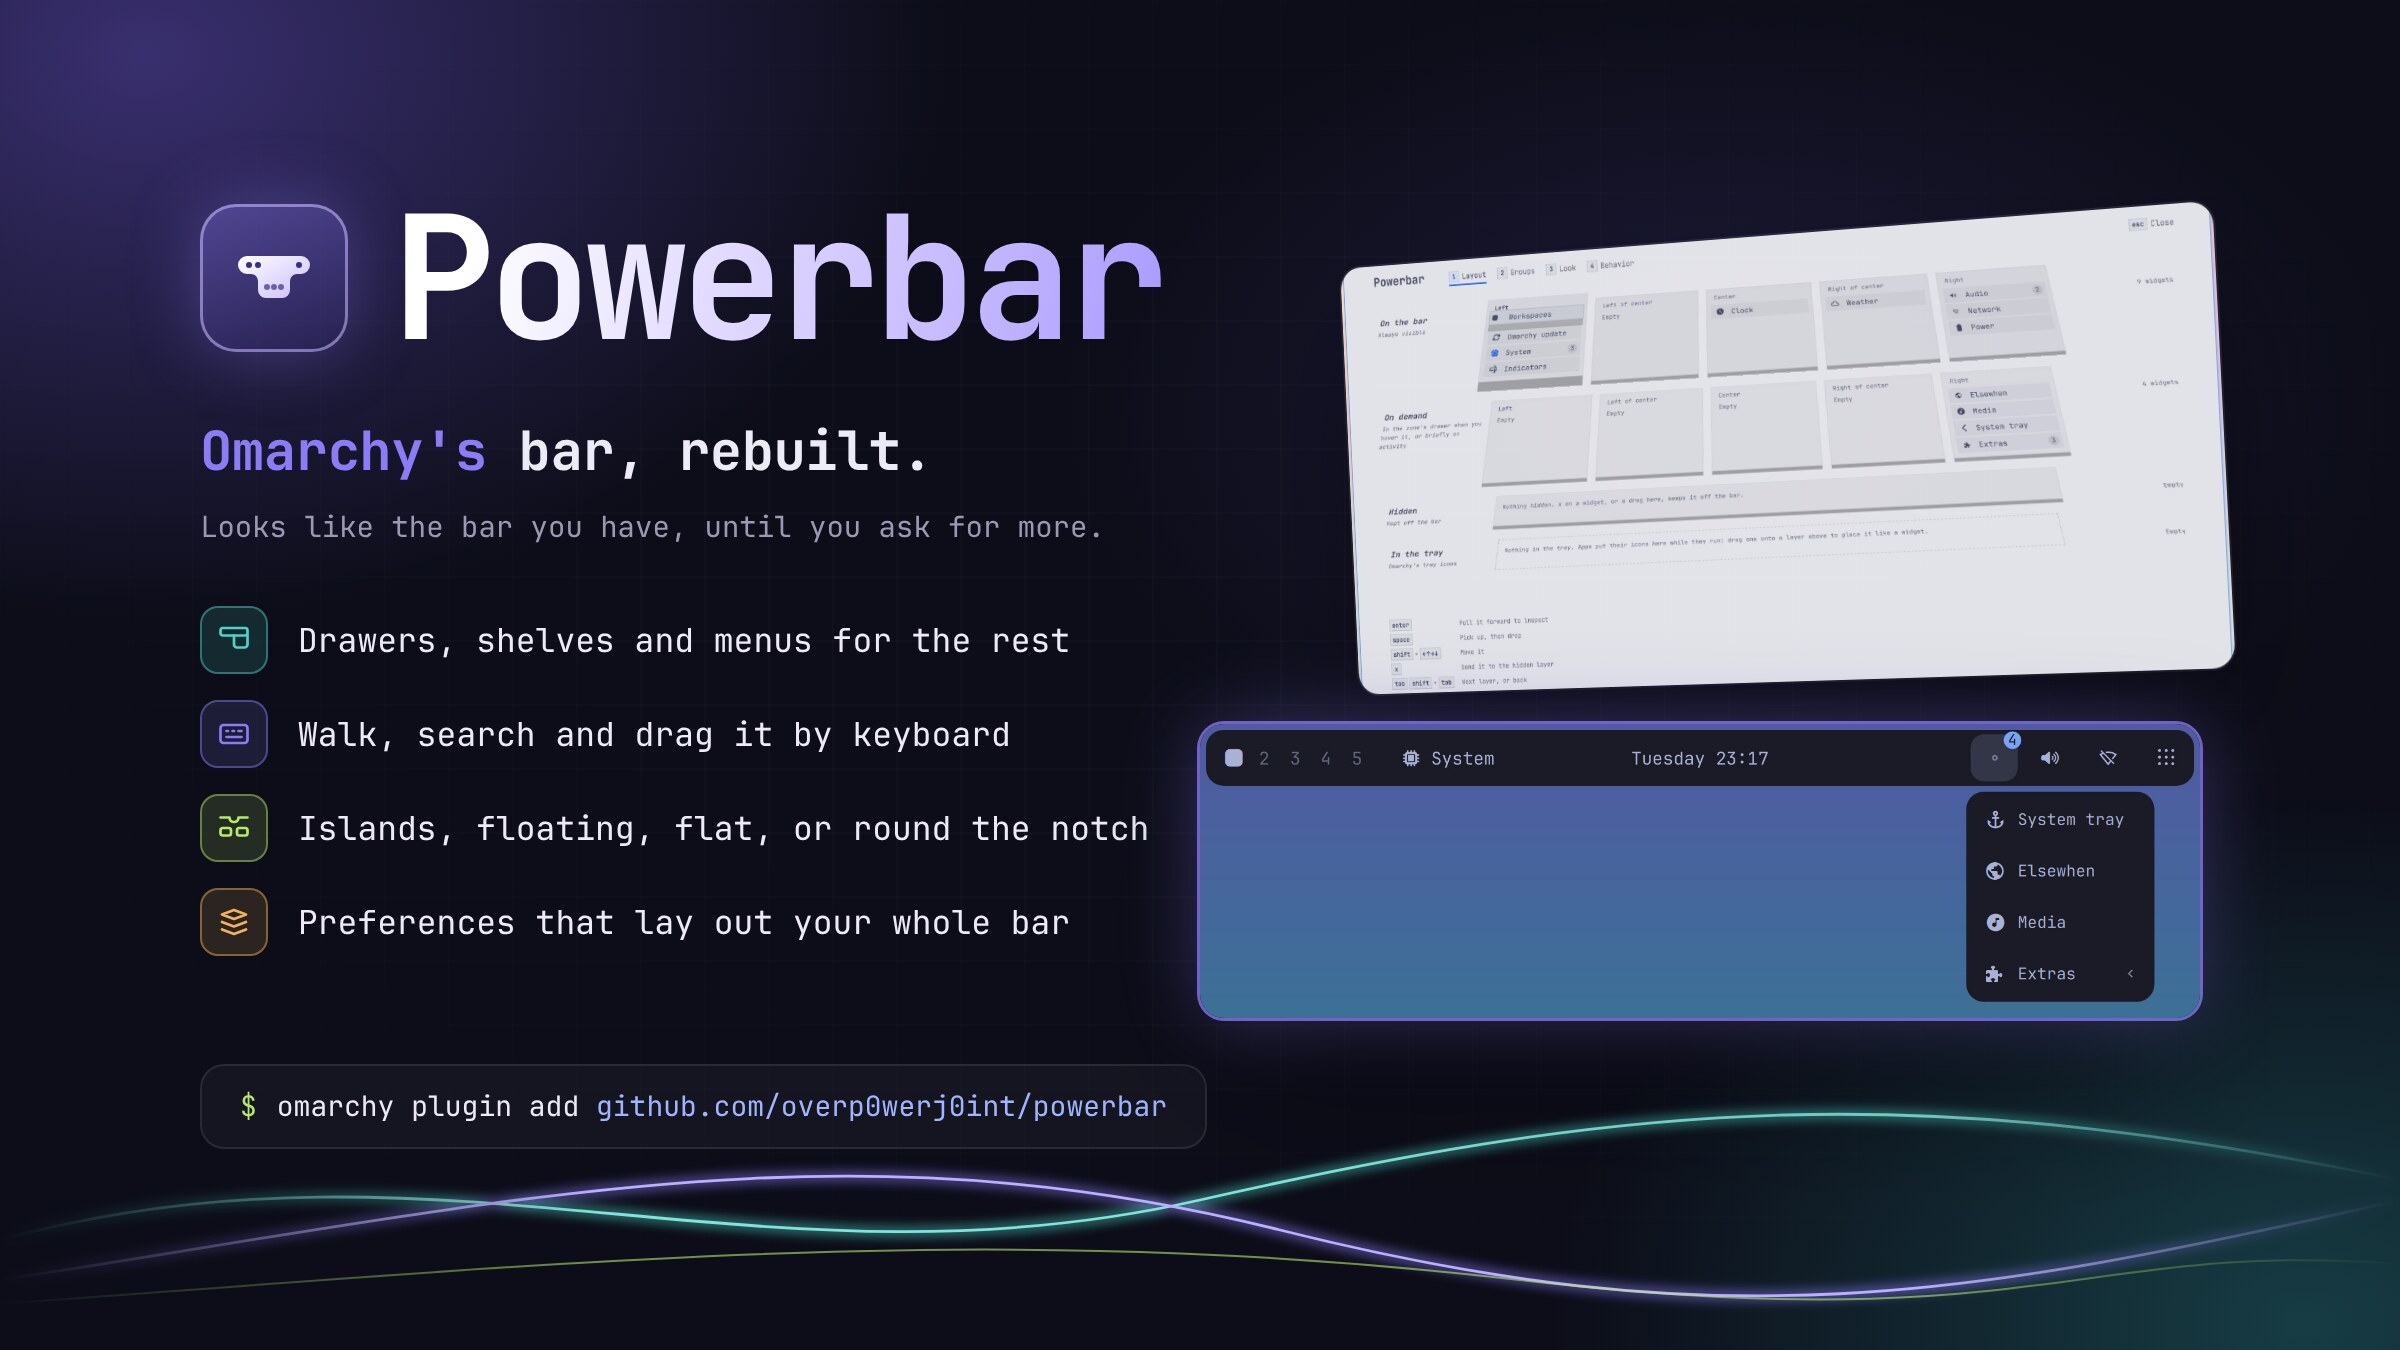
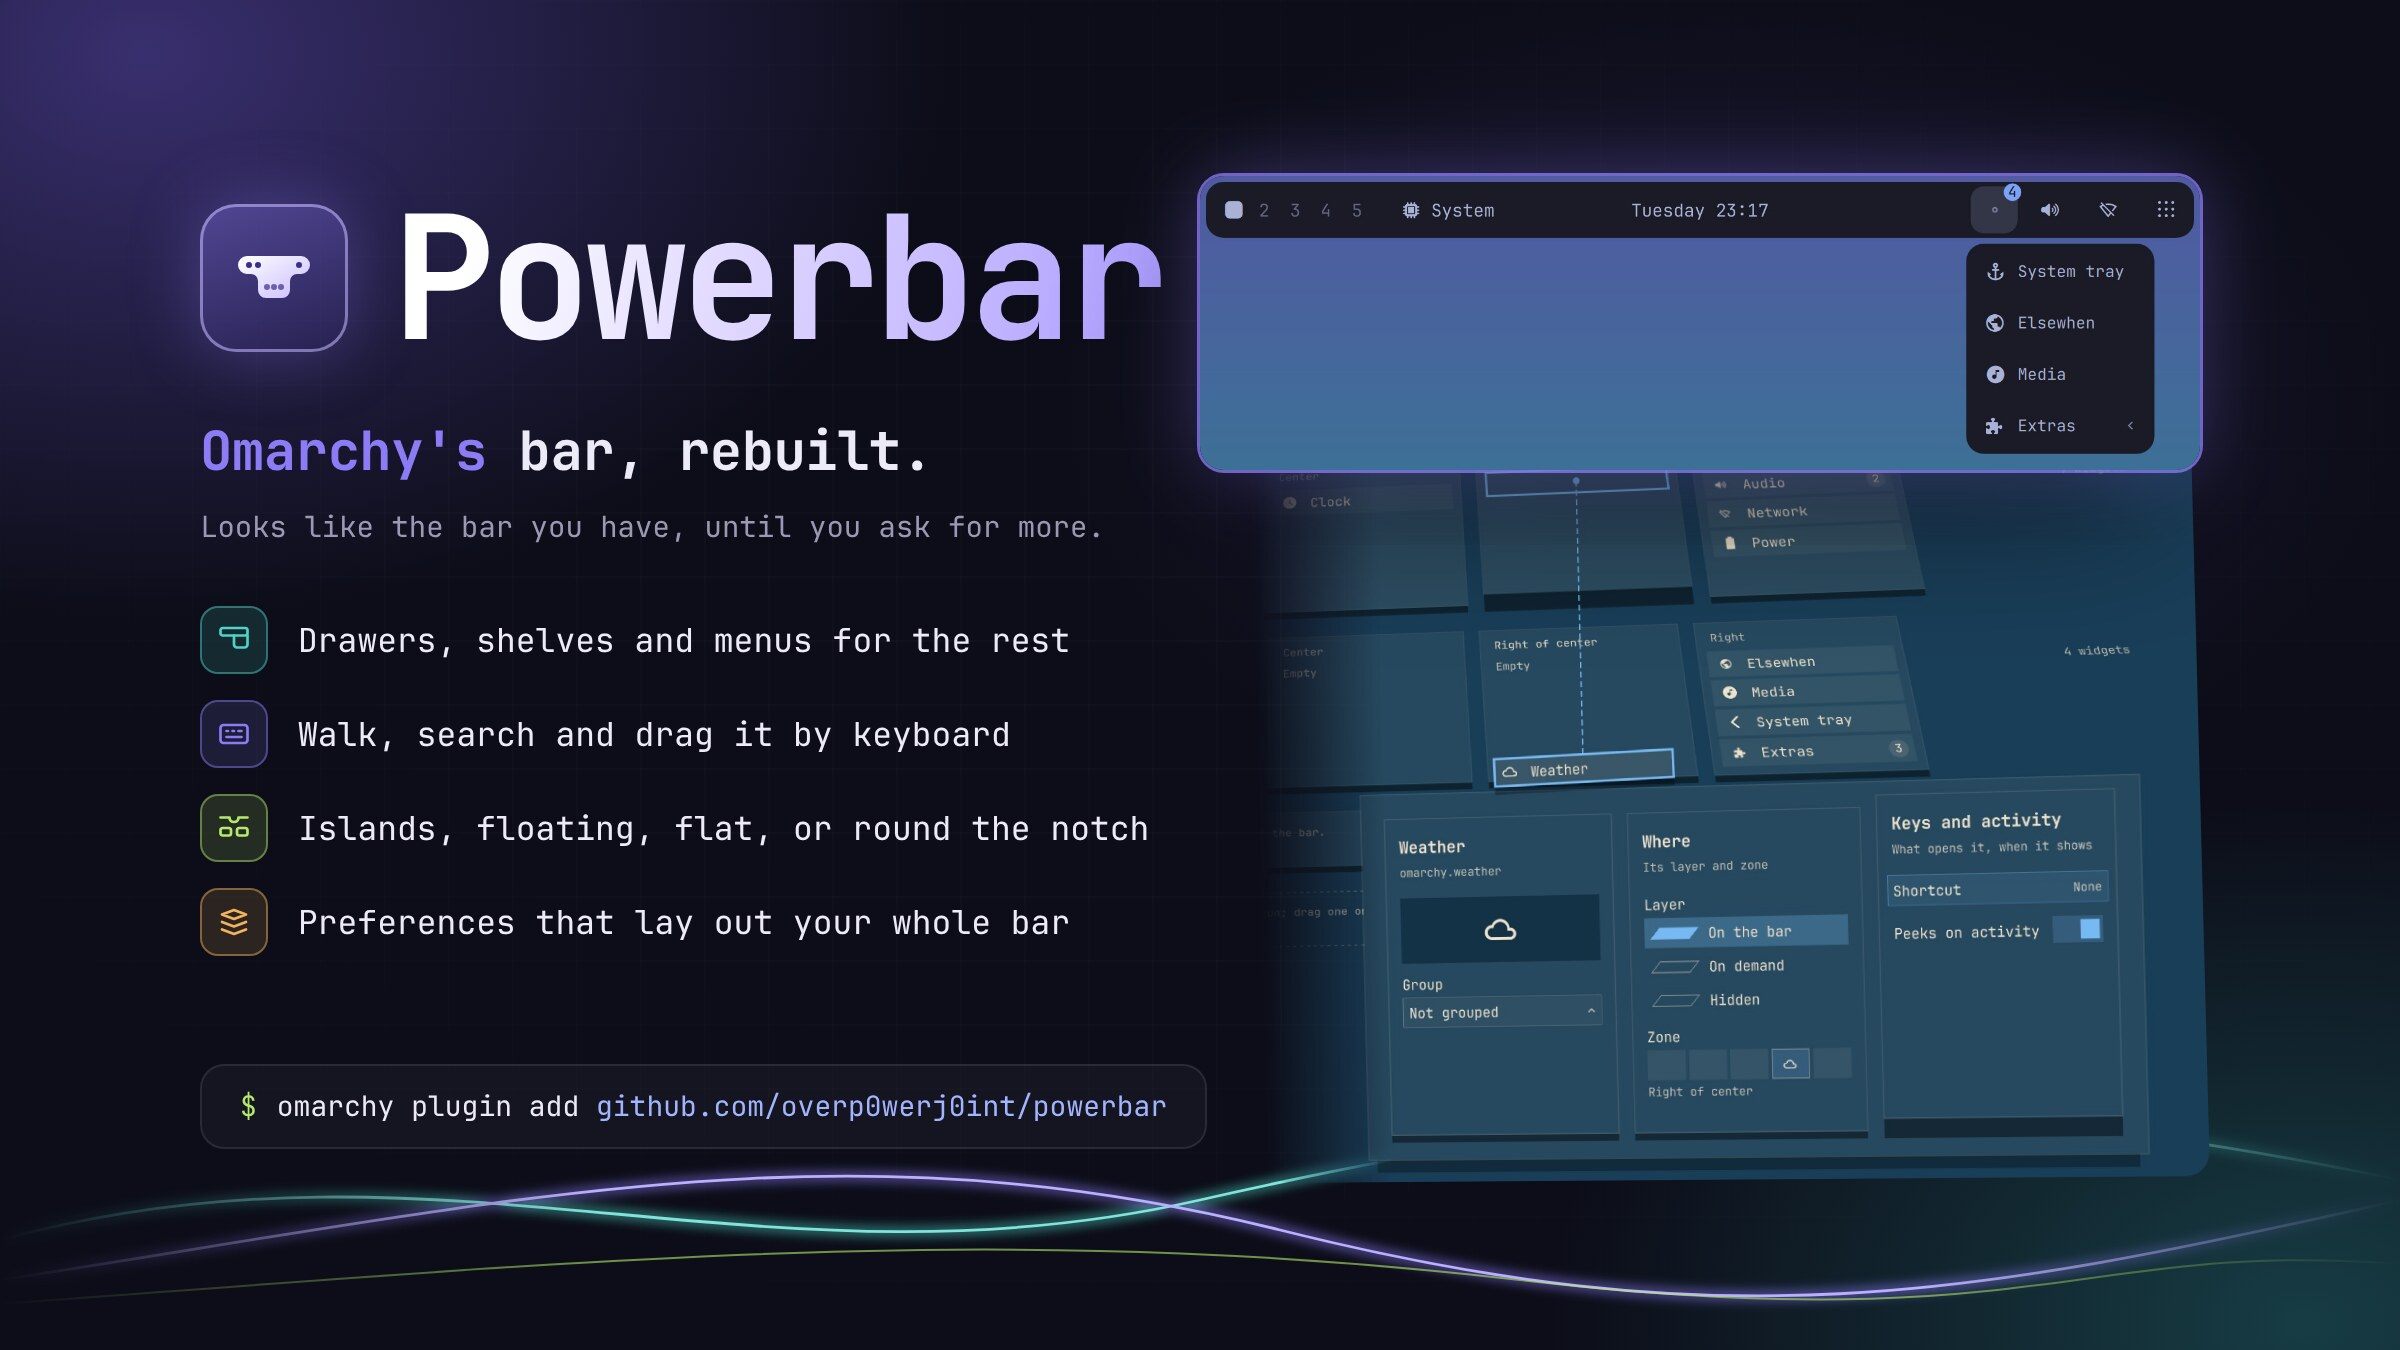
Hero: Preferences on cumulus with the inspector out
The card now puts the bar in front of a closer crop of the Layout page,
Weather pulled out, so the inspector's text can be read at card size.

Changed region(s): [[0.4688, 0.0933, 0.9375, 0.9022]]

diff --git a/tools/showcase/card.html b/tools/showcase/card.html
@@ -1,11 +1,11 @@
 <!doctype html>
 <!-- Powerbar's README hero and plugin preview, rendered by render.sh (headless
      Chromium, 1200x675 at 2x: 16:9, the marketplace's card shape). Words on
-     the left, two untouched captures on the right: screenshots/hero-prefs.jpg
-     (Preferences, Layout page, catppuccin-latte) tilted behind
-     screenshots/hero-bar.jpg (a floating bar on tokyo-night with the right
-     zone's menu open). Catalogue cards crop the picture to between about 1.5:1 and
-     2.4:1, so what matters stays inside 95..1105 x 88..588. -->
+     the left, two untouched captures on the right: screenshots/hero-bar.jpg
+     (a floating bar on tokyo-night with the right zone's menu open) in front
+     of screenshots/hero-prefs.jpg (Preferences on cumulus, a widget pulled
+     out to its inspector). Catalogue cards crop the picture to between about
+     1.5:1 and 2.4:1, so what matters stays inside 95..1105 x 88..588. -->
 <html lang="en">
 <head>
 <meta charset="utf-8">
@@ -83,14 +83,14 @@
   .shot { position: absolute; display: block; border-radius: 12px; overflow: hidden }
   .shot img { display: block; width: 100%; height: 100% }
   .prefs {
-    left: 612px; top: 100px; width: 500px; height: 234px;
-    transform: perspective(1400px) rotateY(-16deg) rotateZ(-3deg);
+    left: 600px; top: 202px; width: 500px; height: 386px;
+    mask-image: linear-gradient(90deg, transparent, black 14%);
+    transform: perspective(1600px) rotateY(-9deg) rotateZ(-1.5deg);
     transform-origin: right center;
     box-shadow: 0 30px 70px -20px rgba(0, 0, 0, 0.7), 0 0 0 1px rgba(255, 255, 255, 0.10);
-    opacity: 0.94;
   }
   .bar {
-    left: 600px; top: 362px; width: 500px; height: 147px;
+    left: 600px; top: 88px; width: 500px; height: 147px;
     box-shadow: 0 0 0 1.5px rgba(139, 124, 246, 0.75), 0 0 40px rgba(139, 124, 246, 0.35),
                 0 30px 80px -20px rgba(0, 0, 0, 0.8);
   }

diff --git a/DEVELOPMENT.md b/DEVELOPMENT.md
@@ -128,8 +128,10 @@ below, with `tuning false`:
   `omarchy-theme-bg-set`, so the bar stands out), a 1700x600 screen at scale
   2.5, `set style floating`, `set onDemand menu`, `managed right`, cropped to
   the top 1700x500.
-- `screenshots/hero-prefs.jpg`: catppuccin-latte, a 2880x1500 screen at
-  scale 2, `preferencesPage 1`, cropped to 2880x1348+0+114.
+- `screenshots/hero-prefs.jpg`: cumulus, a 2880x1500 screen at scale 2,
+  `set autoHide true` (so *Peeks on activity* is live), `preferencesPage 1`,
+  keys `Right` x3, `Return` (Weather pulled out to its inspector), cropped to
+  1620x1250+1240+236.
 
 Keep what matters inside 95..1105 x 88..588 of the page: catalogue cards
 crop the picture to between about 1.5:1 and 2.4:1. Re-run render.sh after
